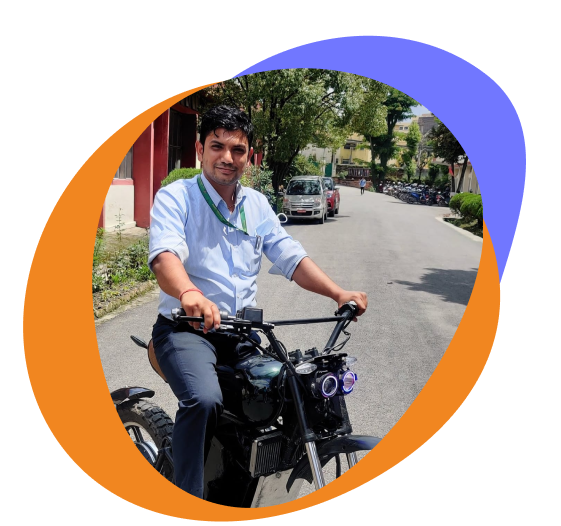
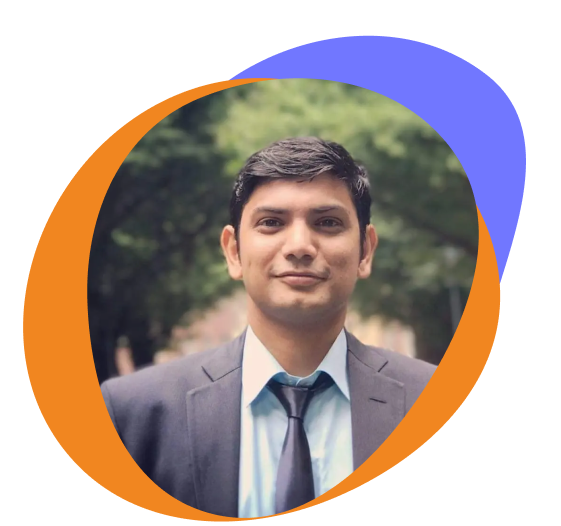
made mobile responsive for testomonials and subnavbar

diff --git a/components/StudentTestimonials.jsx b/components/StudentTestimonials.jsx
@@ -1,23 +1,33 @@
 "use client"
 import React from 'react'
 import styled from 'styled-components'
+import Image from 'next/image'
 import StudentTestimonialCard from './StudentTestimonialCard'
 import usePosition from '../utils/usePosition'
 import Bikrant from '../public/bikrant.jpg'
 import Khemraj from '../public/khemraj.jpg'
 import Shubham from '../public/shubham.jpg'
 import Prashant from '../public/prashant.jpg'
+import vectortest from '../assets/testimonialVector.png'
+import quote from '../assets/quotevector.png'
 
 
 const Container = styled.section`
     position: relative;
-
     width: 100%;
-    height: 100%;
-    background-color: #7177FF;
+    min-height: 50vh;
+    background-color: #fffff;
     padding: 5rem 0rem;
-    margin-top: 276px;
+    margin-top: 250px;
+    display:flex;
+    flex-direction:column;
 
+`
+const Wrapper= styled.div`
+    display:flex;
+    flex-direction:column;
+    background-color:#7177FF;
+    position:relative;
 `
 
 const H1 = styled.h1`
@@ -27,43 +37,59 @@ const H1 = styled.h1`
     margin: 24px 0;
 `
 
-const Quote = ({ width = 185, height = 136}) => (
-    <svg width={width} height={height} viewBox="0 0 185 136" fill="none" xmlns="http://www.w3.org/2000/svg">
-        <path d="M115.625 125.135C115.625 131.412 120.749 136.596 126.944 135.586C159.766 130.235 185 102.03 185 68.3126L185 19.1253C185 8.63187 176.493 0.125275 166 0.125275H134.625C124.132 0.125275 115.625 8.63186 115.625 19.1253V49.3126C115.625 59.806 124.132 68.3126 134.625 68.3126H142.875C153.368 68.3126 162.245 77.1872 157.95 86.7617C152.26 99.4479 140.857 109.035 126.886 112.431C120.787 113.914 115.625 118.859 115.625 125.135ZM0 125.135C0 131.412 5.12427 136.596 11.319 135.586C44.1414 130.235 69.375 102.03 69.375 68.3126V19.1253C69.375 8.63187 60.8684 0.125275 50.375 0.125275H19C8.50659 0.125275 0 8.63186 0 19.1253L0 49.3126C0 59.806 8.50659 68.3126 19 68.3126H27.25C37.7434 68.3126 46.6195 77.1872 42.3252 86.7617C36.6352 99.4479 25.2319 109.035 11.2605 112.431C5.16168 113.914 0 118.859 0 125.135Z" fill="#C6C9FF"/>
-    </svg>
-)
 
-const Curve = ({ width = 1200, height = 136}) => (
-    <svg width={width} height={height} viewBox="0 0 1439 132" fill="none" xmlns="http://www.w3.org/2000/svg">
-        <path d="M1053.6 64.3214C984.048 77.0975 916.703 99.9972 847.343 113.886C748.544 133.684 645.655 134.88 547.012 114.348C451.15 94.444 351.752 45.8974 257.029 21.2334C173.028 -0.648045 81.3155 -9.65876 0 17.6812V131.15L1439 131.15V98.7658C1316.13 52.7601 1182.84 40.848 1053.6 64.3214Z" fill="#7177FF"/>
-    </svg>
-)
 
 const IconContainer = styled('div')`
-    position: absolute;
-    right: 2rem;
-    top: 0;
+    height:135px;
+    width:185px;
+    z-index:10;
+    position:absolute;
+    right:20px;
+    top:0px;
+
+    @media (max-width: 950px) {
+        height:20px;
+        width:50px;
+    }
+`
+const Icon = styled.div`
+    position:relative;
+    height:100%;
+    width:100%;
 `
 
 const CurveContainer = styled('div')`
-    position: absolute;
     width: 100%;
-    height:135px;
-    bottom: 100%;
-    left: 0;
-    overflow-y: hidden;
+    height:130px;
+    position: absolute;
+    top:-49px;
+    right:0px;
+    // overflow-y: hidden;
 
-    &>svg {
-        position: relative;
-        display: block;
-        width: 100%;
-        height: 140px;
+    @media (max-width: 950px) {
+        height:100px;
+        top:-18px;
+    right:0px;
     }
+
+`
+
+const Curve =styled.div`
+    width: 100%;
+    height:100%;
+    posistion:relative;
 `
 
 export const CarouserContainer = styled('div')`
   position: relative;
   overflow: hidden;
+  margin-bottom:32px;
+  height:400px;
+
+  @media(max-width:950px){
+    height:600px;
+    width:100%;
+  }
 `
 
 export const CarouserContainerInner = styled('div')`
@@ -193,10 +219,16 @@ const StudentTestimonials = () => {
   return (
     <Container>
         <CurveContainer>
-            <Curve />
+            <Curve>
+
+            <Image src={vectortest} layout="fill" objectFit="cover" alt="Campus Chief" />
+            </Curve>
         </CurveContainer>
+        <Wrapper>
         <IconContainer>
-            <Quote />
+            <Icon>
+                < Image src={quote} layout="fill" objectFit="contain" alt="Campus Chief" />
+            </Icon>
         </IconContainer>
         <H1>Student Testimonials</H1>
         <CarouserContainer>
@@ -213,6 +245,7 @@ const StudentTestimonials = () => {
                 <ArrowRight />
             </RightCarouselButton>
         </CarouserContainer>
+        </Wrapper>
     </Container>
   )
 }

diff --git a/components/SubNavBar.jsx b/components/SubNavBar.jsx
@@ -11,35 +11,35 @@ const SubNavBar = () => {
     <nav className={styles.subNav}>
       <section className={styles.section_left}>
         <div>
-          <Link href="/">
-            <IoLibraryOutline />
-            <span>Library</span>
+            <Link href="https://library.tcioe.edu.np/" target="_blank">
+            <IoLibraryOutline className={styles.icon} />
+            <span className={styles.link}>Library</span>
           </Link>
         </div>
         <div>
-          <Link href="/">
-            <BsFillJournalBookmarkFill />
-            <span>Journal</span>
+          <Link href="https://journal.tcioe.edu.np/" target="_blank" >
+            <BsFillJournalBookmarkFill className={styles.icon} />
+            <span className={styles.link}>Journal</span>
           </Link>
         </div>
       </section>
       <section className={styles.section_right}>
         <div>
-          <Link href="/">
-            <RiFilePaper2Line />
-            <span>Phone Directory</span>
+          <Link href="/" >
+            <RiFilePaper2Line className={styles.icon} />
+            <span className={styles.link}>Phone Directory</span>
           </Link>
         </div>
         <div>
-          <Link href="/">
-            <RiFilePaper2Line />
-            <span>Alumni</span>
+          <Link href="/" >
+            <RiFilePaper2Line className={styles.icon} />
+            <span className={styles.link}>Alumni</span>
           </Link>
         </div>
         <div>
-          <Link href="/">
-            <FaUserGraduate />
-            <span>My Portal</span>
+          <Link href="/" >
+            <FaUserGraduate className={styles.icon}/>
+            <span className={styles.link}>My Portal</span>
           </Link>
         </div>
       </section>

diff --git a/app/doece/page.js b/app/doece/page.js
@@ -3,11 +3,10 @@ import React from 'react'
 import HeroComponent from "@/components/HeroComponent";
 import CampusChiefComponent from "@/components/CampusChiefComponent";
 import ProgramsOfferedComponent from "@/components/ProgramsOfferedComponent";
-import KCDSirComponent from "@/components/KCDSirComponent"
 
 //paxi backend bata head_data fetch garera pathaune
 import hero from "@/assets/heroDOECE.png";
-import CampusCheifimage from '@/assets/KCD.jpg'
+import CampusCheifimage from '@/assets/hod.png'
 import computer from "@/assets/computer.png";
 import electronics from "@/assets/electronics.png";
 import CampusImageGallery from '@/components/CampusImageGallery';
@@ -41,7 +40,7 @@ const Page = () => {
     <>
       <div>
           <HeroComponent img={hero} />
-          <KCDSirComponent post={head_data.post} name={head_data.name} photo={head_data.photo} message={head_data.message} />
+          <CampusChiefComponent post={head_data.post} name={head_data.name} photo={head_data.photo} message={head_data.message} />
           <ProgramsOfferedComponent programs={programs_data} />
           <CampusImageGallery />
           <StudentTestimonials />

diff --git a/components/StudentTestimonialCard.jsx b/components/StudentTestimonialCard.jsx
@@ -3,8 +3,8 @@ import React from 'react'
 import styled from 'styled-components'
 import Image from 'next/image'
 
-const Container = styled('div')`
-    min-height: 200px;
+const Container = styled.div`
+    height: 350px;
     min-width: 600px;
     background-color: #fff;
     padding: 3rem;
@@ -17,10 +17,24 @@ const Container = styled('div')`
     justify-content: center;
     align-items: center;
     gap: 2rem;
+
+    @media(max-width:950px){
+        height:450px;
+        min-width:350px;
+        padding: 1px;
+        // color:red;
+      }
 `
 
 const Content = styled('p')`
     font-size: 1rem;
+    width:90%;
+    text-align:justify;
+    @media(max-width:950px){
+        size:0.5rem;
+        width:90%;
+      }
+    
 `
 
 const CardContainer = styled('div')`
@@ -39,6 +53,9 @@ const StudentProfile = styled('div')`
     &>* {
         border-radius: 100%;
     }
+    @media(max-width:950px){
+        // display:none;
+      }
 `
 
 const StudentName = styled('h1')`

diff --git a/components/CampusChiefComponent.jsx b/components/CampusChiefComponent.jsx
@@ -3,7 +3,7 @@ import styled from 'styled-components'
 import Image from 'next/image'
 import Link from 'next/link'
 
-import CampusCheifimage from '../assets/CC_image.webp'
+// import CampusCheifimage from '../assets/CC_image.webp'
 const Wrapper = styled.div`
     width: 100%;
     min-height: 400px;
@@ -114,7 +114,7 @@ const CampusChiefComponent = ({post,name,photo,message}) => {
                 </PostContainer>
             </LeftContainer>
             <RightContainer>
-                <Image src={CampusCheifimage} layout="fill" objectFit="contain" alt="Campus Chief" />
+                <Image src={photo} layout="fill" objectFit="contain" alt="Campus Chief" />
             </RightContainer>
         </Container>
         </Wrapper>

diff --git a/components/SubNavBar.module.css b/components/SubNavBar.module.css
@@ -3,7 +3,8 @@
     align-items: center;
     justify-content: space-between;
     padding: 1rem 2rem;
-    background-color: #d4d4d4;
+    background-color: #f1f1f1;
+    z-index:3px;
   }
   
   .section_left,
@@ -13,20 +14,23 @@
   
     align-items: center;
   }
-  
+
   .section_left a,
   .section_right a {
     display: flex;
     align-items: center;
     gap: 5px;
-    color: var(--secondary-color);
+    color:#000;
     /* color: var(--text-color); */
     font-size: 12px;
     font-weight: 500;
     text-decoration: none;
   }
   @media (max-width: 1000px) {
-    .subNav {
-      display: none;
+    .link{
+      font-size:0.75rem;
+    }
+    .icon{
+      display:none;
     }
   }

diff --git a/app/page.js b/app/page.js
@@ -12,7 +12,7 @@ import CampusCheifimage from '../assets/CC_image.png'
 import HeaderComponent from "@/components/HeaderComponent";
 import { menuItems } from "@/utils/menuItems";
 import FooterComponent from "@/components/FooterComponent";
-
+import SubNavBar from "@/components/SubNavBar";
 const data = {
   post: "Campus chief",
   name: "Dr. Prof. Khem Gyawali",
@@ -23,6 +23,7 @@ const data = {
 export default function Home() {
   return (
     <>
+    <SubNavBar/>
       <HeaderComponent menuItems={menuItems}/>
       <div>
         <HeroComponent img={hero} />

diff --git a/app/doece/layout.js b/app/doece/layout.js
@@ -10,7 +10,7 @@ export const metadata = {
 
 export default function RootLayout({ children }) {
   return (
-    <html lang="en">
+    <>
       <head>
         <title>{metadata.title}</title>
         <meta name="description" content={metadata.description} />
@@ -19,6 +19,6 @@ export default function RootLayout({ children }) {
         <HeaderComponent menuItems={menuItems} />
         <main>{children}</main>
       </body>
-    </html>
+    </>
   );
 }

diff --git a/components/OurDepartmentsSection.jsx b/components/OurDepartmentsSection.jsx
@@ -18,6 +18,13 @@ export const ContainerCentered = styled('section')`
 
     display: grid;
     grid-template-columns: repeat(3, 1fr);
+
+    @media (max-width: 950px) {
+        grid-template-columns: repeat(2, 1fr);
+    }
+    @media (max-width: 550px) {
+        grid-template-columns: repeat(1, 1fr);
+    }
 `
 
 const OurDepartmentsSection = () => {
